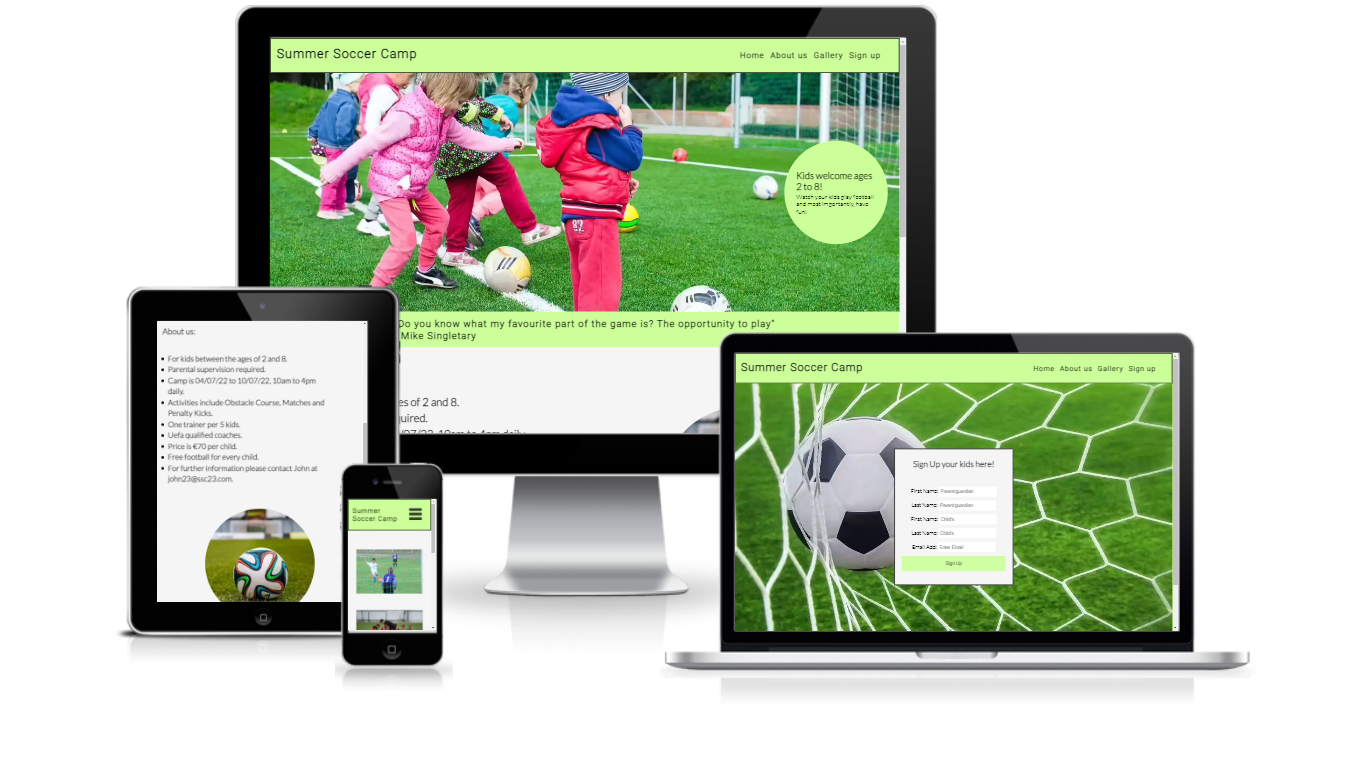
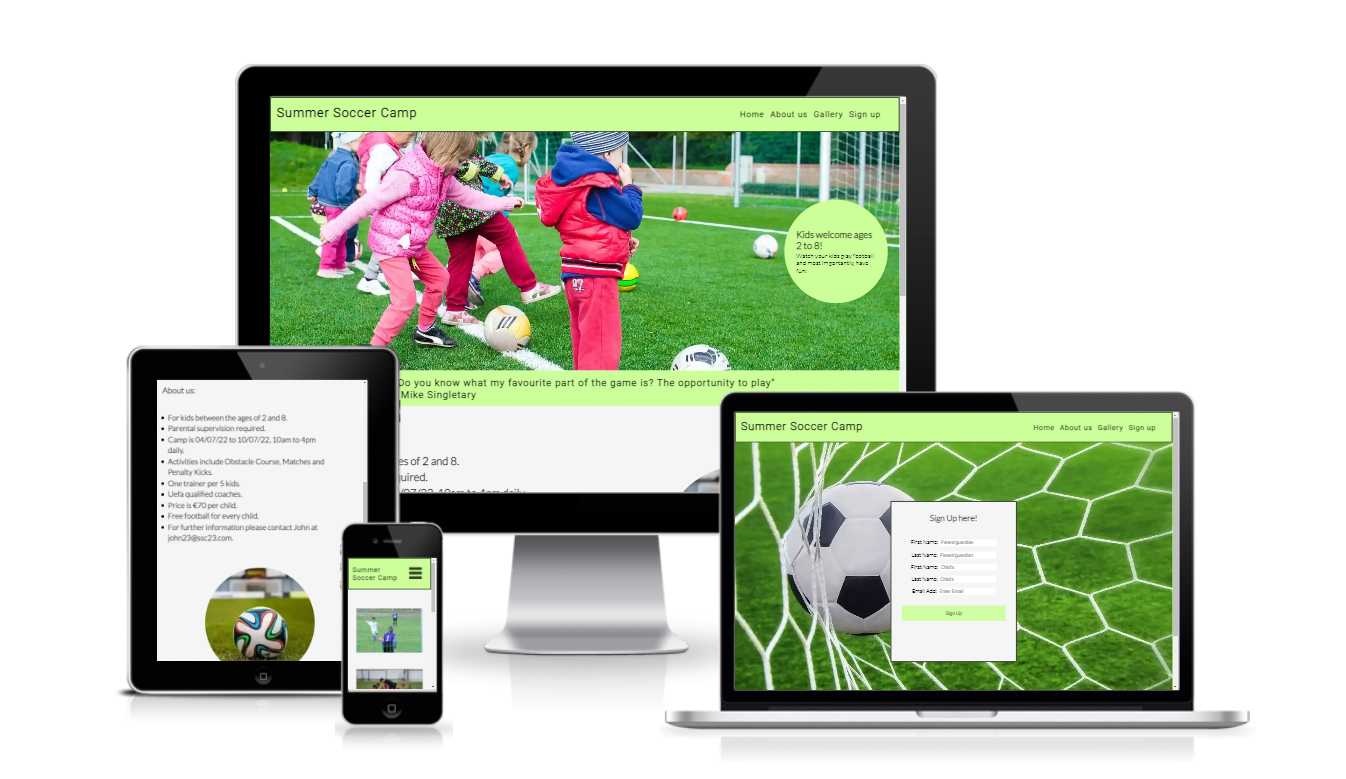
add aria labels to html for home page image and sign up page image to account for screen readers, add description of this action to the readme.md

diff --git a/signup.html b/signup.html
@@ -60,30 +60,33 @@
     <!--Sign up form-->
 
     <section>
-        <div class="signup-form">
-            <form method="POST" action="https://formdump.codeinstitute.net/">
-                <h2>Sign Up your kids here!</h2>
-                <br>
-                <label for="fname">First Name:</label>
-                <input id="fname" class="text-input" type="text" name="parent_first_name" placeholder="Parent/guardian"
-                    required />
-                <br>
-                <label for="lname">Last Name:</label>
-                <input id="lname" class="text-input" type="text" name="parent_last_name" placeholder="Parent/guardian"
-                    required />
-                <br>
-                <label for="cfname">First Name:</label>
-                <input id="cfname" class="text-input" type="text" name="first_name" placeholder="Child's" required />
-                <br>
-                <label for="clname">Last Name:</label>
-                <input id="clname" class="text-input" type="text" name="last_name" placeholder="Child's" required />
-                <br>
-                <label for="email">Email Add:</label>
-                <input type="text" class="text-input" id="email" placeholder="Enter Email" name="parent_email"
-                    required />
-                <br>
-                <button type="submit" class="signup-button">Sign Up</button>
-            </form>
+        <div>
+            <span class="signup-form" role="img" aria-label="Image of football hitting a net">
+                <form method="POST" action="https://formdump.codeinstitute.net/">
+                    <h2>Sign Up here!</h2>
+                    <br>
+                    <label for="fname">First Name:</label>
+                    <input id="fname" class="text-input" type="text" name="parent_first_name"
+                        placeholder="Parent/guardian" required />
+                    <br>
+                    <label for="lname">Last Name:</label>
+                    <input id="lname" class="text-input" type="text" name="parent_last_name"
+                        placeholder="Parent/guardian" required />
+                    <br>
+                    <label for="cfname">First Name:</label>
+                    <input id="cfname" class="text-input" type="text" name="first_name" placeholder="Child's"
+                        required />
+                    <br>
+                    <label for="clname">Last Name:</label>
+                    <input id="clname" class="text-input" type="text" name="last_name" placeholder="Child's" required />
+                    <br>
+                    <label for="email">Email Add:</label>
+                    <input type="text" class="text-input" id="email" placeholder="Enter Email" name="parent_email"
+                        required />
+                    <br>
+                    <button type="submit" class="signup-button">Sign Up</button>
+                </form>
+            </span>
         </div>
     </section>
 

diff --git a/index.html b/index.html
@@ -54,21 +54,22 @@
                 </li>
             </ul>
         </div>
-
     </header>
 
     <!-- main image and text content -->
 
     <section>
-        <div class="main-image">
-            <div class="text-content">
-                <h2>
-                    Kids welcome ages 2 to 8!
-                </h2>
-                <p>
-                    Watch your kids play football and most importantly, have fun!
-                </p>
-            </div>
+        <div>
+            <span class="main-image" role="img" aria-label="kids kicking footballs towards a goals on a football field">
+                <div class="text-content">
+                    <h2>
+                        Kids welcome ages 2 to 8!
+                    </h2>
+                    <p>
+                        Watch your kids play football and most importantly, have fun!
+                    </p>
+            </span>
+        </div>
         </div>
         <div class="quote-div">
             <h2>

diff --git a/assets/css/style.css b/assets/css/style.css
@@ -57,7 +57,6 @@ header>#menu {
     justify-content: space-around;
     align-items: center;
     width: 100%;
-
 }
 
 #menu ul li {
@@ -65,7 +64,6 @@ header>#menu {
     background-color: #ccff99;
     border-radius: 10px;
     margin: 5px;
-
 }
 
 #hamburger-icon {
@@ -230,13 +228,11 @@ i:hover {
     background: url(../images/sign-up-image.webp) no-repeat center center;
     min-height: 100vh;
     background-color: #ccff99;
-
 }
 
 .text-input {
     line-height: 20px;
     padding-left: 4px;
-
 }
 
 .signup-form form {
@@ -251,10 +247,6 @@ i:hover {
     margin: 20px 0;
 }
 
-.signup-form h2 {
-    width: 250px;
-    margin: 20px;
-}
 
 /*--sign up button code from W3C schools--*/
 

diff --git a/README.md b/README.md
@@ -83,7 +83,7 @@ The following are images of the entire site and a brief description of the value
   * The sign up page is of value to the user as it allows them to fill out a simple sign up form to register for the camp. The sign up form allows the user to enter their own name and the childs name. The sign up form can be submitted multiple times by the same user to allow for multiple registrations.
 <br>
 
-  ![Sign up form](assets/images/sign-up.png)
+  ![Sign up form](assets/images/signup-image-readme.png)
 <br>
 
 ## <u>**User Experience**</u>
@@ -163,7 +163,7 @@ The Summer Soccer camp is an online webpage that introduces potential clients fr
 
   * Using semantic HTML.
 
-  * Using alt attribute with images on the site. There are two exceptions to the use of alt attributes. The first is the main image on the home page which has a text circle inserted to assist screen readers and the background image on the sign up page which is there for background decorative purposes.
+  * Using alt attribute with images on the site or aria-labels in the cases where the images were placed in the CSS file. The method of achieving this is displayed in the credits of this readme.md file.
 
   * Ensuring sufficent colour contrast throughout the site.
 
@@ -210,6 +210,8 @@ The Summer Soccer camp is an online webpage that introduces potential clients fr
   * Tha hamburger menu was staying open on arrival to the website. The reason for this was the specificity was not properly utilized to target the menu and the command display:none; was not working as expected. I addressed this by taking the following action - header>#menu rather than have all the css rules under just #menu.
 
   * The sign up form was not responsive on horizontal mobile viewing. I changed the height values to VH values for the page, the form and the text spacing to address this issue.
+
+  * I tested the site on a safari browser and images in the format of avif would not load , I changed these images to webp , this had a negative effect for the lighthouse score on the home page so I tested several images at different resolutions to select the best one that also had an adequate lighthouse performance score.
 <br>
 
 ## <U>**W3C Validator**</U>
@@ -287,7 +289,7 @@ The following images in this section are displayed as lighthouse desktop as the 
 
 1. The image below displays the lighthouse desktop score for the home page. The performance score was diplaying as 75 on a mobile device and 86 on a desktop device. I consulted with my mentor about the score and he informed me the size of the main image was having a negative impact on performance score.
 
-2. I used the website [ezgif.com](https://ezgif.com/) to address this problem. I resized image and this increased the performance score to 99 on the desktop devices and 94 on the mobile devices. The increase in score came directly as a result of these changes as confirmed through retesting.
+2. I used the website [ezgif.com](https://ezgif.com/) to address this problem. I resized image and this increased the performance score to 99 on the desktop devices and 94 on the mobile devices. The increase in score came directly as a result of these changes as confirmed through retesting. I then had to change the image format again as the format of avif for images is not compatible with safari browsers and the new mobile lighthouse score was 90.
 
 ![Lighthouse home desktop score](assets/images/lighthouse-desktop-home.png)
 
@@ -362,6 +364,8 @@ To clone the summer-soccer-camp repository:
   * The JavaScript used for the hamburger menu on smaller screen sizes was written by Harsh Chandra a software developer. I wanted the burger menu for smaller screen sizes but I did not have the knowledge to accomplish it by myself. I personally wrote the CSS and HTML for the hamburger menu with assistance from Harsh Chandra.
 
   * The began this project using float properties but I then learned of an easier way to position items using flex. I learned how to apply [Flex Positioning](https://www.w3schools.com/css/css3_flexbox.asp) at W3C schools.
+
+  * The idea for the code to create the aria-labels for images in the CSS file was provided to me by tutor support. The website I accessed to write the code for the aria-label is [davidmacd.com](https://www.davidmacd.com/blog/alternate-text-for-css-background-images.html).
 <br>
 
 ### **Media**
@@ -389,7 +393,7 @@ To clone the summer-soccer-camp repository:
 
     * Antonio Rodriguez - My Mentor who offered his help both by appointments and outside appointment hours and never failed to point me in the right direction when I was struggling to find solutions to existing bugs.
 
-    * Code Institute Tutors - For assisint me with numerous issues throughout the project and never failing to point me in the right direction.
+    * Code Institute Tutors - For assisting me with various issues throughout the project and never failing to point me in the right direction.
 
     * Jim Sawyer - For taking the time to discuss the best way for me to successfully complete this website and for providing moral support at times of hardship.
 
